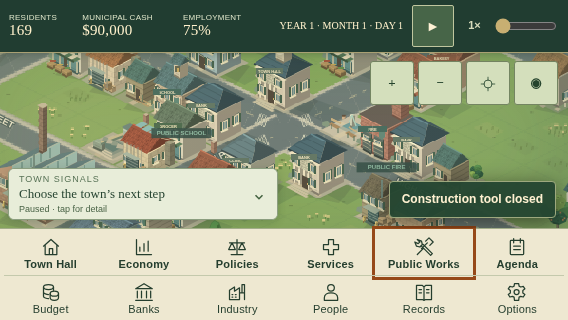
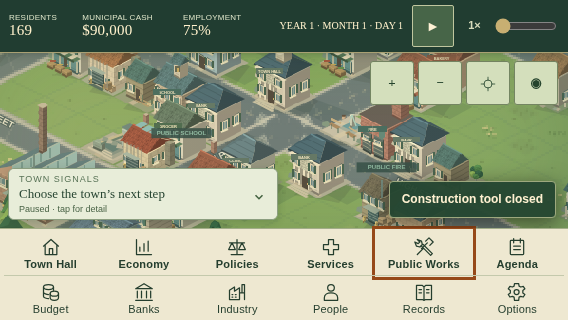
Connect civic recovery to urban and passenger decisions with verified integration evidence

diff --git a/assets/game.js b/assets/game.js
@@ -1804,7 +1804,7 @@ function civicDistrictBlueprint(project,fresh=false){
  if(!G.charter.owned.includes(parcel.id))return {ok:false,reason:'Acquire this district’s development rights before commissioning its roads.'};
  if(G.districtProgrammes?.[parcel.id]?.focus!==project.branch)return {ok:false,reason:'Record the intended district charter before commissioning its physical plan.'};
  if(civicBlueprintCacheTown!==G){civicBlueprintCacheTown=G;civicBlueprintCache=new Map();}
- const net=graph(),key=parcel.id+':'+project.branch,existing=kinds.map(kind=>civicBlueprintExisting(parcel,kind)),revision=[roadsVersion,G.buildings.length,Object.keys(G.landUse||{}).length,existing.map(v=>v?.f.id??'-').join(','),(project.sitePlans||[]).map(s=>s.kind+':'+s.x+','+s.y).join('|')].join('/'),cached=civicBlueprintCache.get(key);
+ const net=graph(),key=parcel.id+':'+project.branch,existing=kinds.map(kind=>civicBlueprintExisting(parcel,kind)),revision=[roadsVersion,G.urban?.revision||0,G.charter.revision,G.buildings.length,Object.keys(G.landUse||{}).length,existing.map(v=>v?.f.id??'-').join(','),(project.sitePlans||[]).map(s=>s.kind+':'+s.x+','+s.y).join('|')].join('/'),cached=civicBlueprintCache.get(key);
  if(!fresh&&cached?.net===net&&cached.revision===revision)return cached.plan;
  const roads=new Set([...net.neighbors.keys()].filter(id=>net.parts[id]===net.mainPart)),fixed=existing.filter(Boolean).map(v=>({kind:v.f.kind,x:v.b.x,y:v.b.y,footprint:footprintOf(v.b),existing:v.b.id,firm:v.f.id})),fixedCells=new Set(fixed.flatMap(s=>s.footprint));
  const preferred=kind=>(project.sitePlans||[]).find(s=>s.kind===kind),firsts=existing[0]?[fixed.find(s=>s.kind===kinds[0])]:civicBlueprintCandidates(parcel,kinds[0],roads,fixedCells,preferred(kinds[0]));let best=null;
@@ -5068,6 +5068,7 @@ function mayorPressureCards(){
  if(m.blocked>0)add(90,'Reconnect paid work',fmt(m.blocked)+' interrupted work journeys','A missing connection can strand existing jobs. Repair access before paying for additional capacity.','construction','Review roads');
  if(m.hardship>15)add(85,'A pay packet is not enough',fmt(m.hardship)+'% of households in hardship','Inspect a family’s wages, rent, essentials and savings before choosing tax relief or targeted support.','citizens','Follow household accounts');
  if(G.day>1&&(m.medical<65||m.school<60))add(75,'Places need people and access','Care '+fmt(m.medical)+'% · learning '+fmt(m.school)+'%','More funding cannot instantly create a qualified worker or a road. Compare public capacity and available private providers before building.','community','Compare provision');
+ const transit=G.transit?.daily;if(transit?.denied>0)add(82,'The passenger network is leaving riders behind',fmt(transit.denied)+' peak passengers without a place · '+fmt(transit.rides)+' actual journeys today','Compare the corridor’s actual driver attendance, peak capacity and operating bill. A larger fleet uses municipal capital and qualified workers who may also be needed by schools or businesses.','construction','Review the actual transit corridors');
  const delayed=(s.shipments||[]).filter(o=>o.due<G.day);if(delayed.length)add(92,'Cargo is taking longer',delayed.length+' consignments past expected arrival','Expected arrival is a plan. Review access, loading and buyer liquidity before promising another agreement.','economy','Trace the delay');
  const missed=recentTradeSetbacks();if(missed.length){const c=missed[0],market=OUTSIDE_MARKETS.find(m=>m.id===c.market);add(70,'Review a recent missed window',(market?.name||c.name)+' · '+fmt(c.delivered)+' / '+fmt(c.quantity)+' recorded arrivals; window ended day '+c.deadline,'The past window remains in history. Review uncommitted stock and handling before another promise. This is recent delivery evidence, not a hidden reputation score.','economy','Review the actual agreement');}
  if(G.day===1)add(40,'Take the first council session','Awaiting the first daily settlement','Trace food stocks and enterprise cash now. Let one simulated day finish before judging food and funded service coverage.','economy','Trace the supply chain');
@@ -5385,7 +5386,7 @@ function civicReviewRecharter(parcelId){
 }
 const civicWatchCardBase=civicProjectCard;civicProjectCard=function(project){
  let html=civicWatchCardBase(project);const issues=civicWatchForProject(project);if(!issues.length)return html;
- const content=`<section class="civic-watch-line" aria-label="Current district stewardship"><strong>Current operating check</strong>${issues.map(i=>`<p class="desc"><b>${esc(i.title)}</b><br>${esc(i.detail)}</p>${i.building?`<button data-inspect="${i.building}">Inspect the actual business</button>`:''}`).join('')}<div class="btnrow"><button data-civic-project-road>Review a recovery blueprint</button>${[...new Set(issues.map(i=>i.kind).filter(k=>CIVIC_BLUEPRINT_KINDS[project.branch].includes(k)))].map(kind=>`<button data-civic-project-build="${kind}" data-civic-project-kind="district">Survey replacement ${esc(types[kind].n.toLowerCase())}</button>`).join('')}<button data-civic-recharter="${project.target}">Compare a different future charter</button><button data-mayor-panel="community">Review local service provision</button></div></section>`;
+ const content=`<section class="civic-watch-line" aria-label="Current district stewardship"><strong>Current operating check</strong>${issues.map(i=>`<p class="desc"><b>${esc(i.title)}</b><br>${esc(i.detail)}</p>${i.building?`<button data-inspect="${i.building}">Inspect the actual business</button>`:''}`).join('')}<div class="btnrow"><button data-civic-project-road>Review a recovery blueprint</button>${[...new Set(issues.map(i=>i.kind).filter(k=>CIVIC_BLUEPRINT_KINDS[project.branch].includes(k)))].map(kind=>`<button data-civic-project-build="${kind}" data-civic-project-kind="district">Survey replacement ${esc(types[kind].n.toLowerCase())}</button>`).join('')}<button data-civic-recharter="${project.target}">Compare a different future charter</button><button data-mayor-panel="community">Review local service provision</button><button data-civic-recovery-planning>Compare land assembly and passenger access</button></div></section>`;
  return html.replace('<div class="btnrow">',content+'<div class="btnrow">');
 };
 const civicWatchStatusBase=updateMapStatusDeck;const civicWatchSignal=document.createElement('div');civicWatchSignal.id='civicWatchSignal';civicWatchSignal.hidden=true;$('mapStatusDetails').prepend(civicWatchSignal);
@@ -5395,7 +5396,7 @@ updateMapStatusDeck=function(){
  else{civicWatchSignal.hidden=true;}
  const urgent=issue?.severity==='urgent';if($('mapStatusToggle').classList.contains('operating-alert')!==!!urgent)$('mapStatusToggle').classList.toggle('operating-alert',!!urgent);
 };
-document.addEventListener('click',e=>{const b=e.target.closest('button');if(!b||!G)return;if(b.dataset.civicRecharter)civicReviewRecharter(b.dataset.civicRecharter);if(b.dataset.civicWatchProject)openCivicProjects('district');});
+document.addEventListener('click',e=>{const b=e.target.closest('button');if(!b||!G)return;if(b.hasAttribute('data-civic-recovery-planning')){openPanel('construction');const office=$('urbanPlanningOffice');if(office){office.open=true;office.scrollIntoView({block:'start'});}}if(b.dataset.civicRecharter)civicReviewRecharter(b.dataset.civicRecharter);if(b.dataset.civicWatchProject)openCivicProjects('district');});
 
 const civicWatchResetBase=resetTownTransientUI;resetTownTransientUI=function(){civicWatchCache=null;civicBlueprintCacheTown=null;civicBlueprintCache.clear();civicWatchResetBase();};
 

diff --git a/src/98-stewardship.js b/src/98-stewardship.js
@@ -30,7 +30,7 @@ function civicReviewRecharter(parcelId){
 }
 const civicWatchCardBase=civicProjectCard;civicProjectCard=function(project){
  let html=civicWatchCardBase(project);const issues=civicWatchForProject(project);if(!issues.length)return html;
- const content=`<section class="civic-watch-line" aria-label="Current district stewardship"><strong>Current operating check</strong>${issues.map(i=>`<p class="desc"><b>${esc(i.title)}</b><br>${esc(i.detail)}</p>${i.building?`<button data-inspect="${i.building}">Inspect the actual business</button>`:''}`).join('')}<div class="btnrow"><button data-civic-project-road>Review a recovery blueprint</button>${[...new Set(issues.map(i=>i.kind).filter(k=>CIVIC_BLUEPRINT_KINDS[project.branch].includes(k)))].map(kind=>`<button data-civic-project-build="${kind}" data-civic-project-kind="district">Survey replacement ${esc(types[kind].n.toLowerCase())}</button>`).join('')}<button data-civic-recharter="${project.target}">Compare a different future charter</button><button data-mayor-panel="community">Review local service provision</button></div></section>`;
+ const content=`<section class="civic-watch-line" aria-label="Current district stewardship"><strong>Current operating check</strong>${issues.map(i=>`<p class="desc"><b>${esc(i.title)}</b><br>${esc(i.detail)}</p>${i.building?`<button data-inspect="${i.building}">Inspect the actual business</button>`:''}`).join('')}<div class="btnrow"><button data-civic-project-road>Review a recovery blueprint</button>${[...new Set(issues.map(i=>i.kind).filter(k=>CIVIC_BLUEPRINT_KINDS[project.branch].includes(k)))].map(kind=>`<button data-civic-project-build="${kind}" data-civic-project-kind="district">Survey replacement ${esc(types[kind].n.toLowerCase())}</button>`).join('')}<button data-civic-recharter="${project.target}">Compare a different future charter</button><button data-mayor-panel="community">Review local service provision</button><button data-civic-recovery-planning>Compare land assembly and passenger access</button></div></section>`;
  return html.replace('<div class="btnrow">',content+'<div class="btnrow">');
 };
 const civicWatchStatusBase=updateMapStatusDeck;const civicWatchSignal=document.createElement('div');civicWatchSignal.id='civicWatchSignal';civicWatchSignal.hidden=true;$('mapStatusDetails').prepend(civicWatchSignal);
@@ -40,6 +40,6 @@ updateMapStatusDeck=function(){
  else{civicWatchSignal.hidden=true;}
  const urgent=issue?.severity==='urgent';if($('mapStatusToggle').classList.contains('operating-alert')!==!!urgent)$('mapStatusToggle').classList.toggle('operating-alert',!!urgent);
 };
-document.addEventListener('click',e=>{const b=e.target.closest('button');if(!b||!G)return;if(b.dataset.civicRecharter)civicReviewRecharter(b.dataset.civicRecharter);if(b.dataset.civicWatchProject)openCivicProjects('district');});
+document.addEventListener('click',e=>{const b=e.target.closest('button');if(!b||!G)return;if(b.hasAttribute('data-civic-recovery-planning')){openPanel('construction');const office=$('urbanPlanningOffice');if(office){office.open=true;office.scrollIntoView({block:'start'});}}if(b.dataset.civicRecharter)civicReviewRecharter(b.dataset.civicRecharter);if(b.dataset.civicWatchProject)openCivicProjects('district');});
 
 const civicWatchResetBase=resetTownTransientUI;resetTownTransientUI=function(){civicWatchCache=null;civicBlueprintCacheTown=null;civicBlueprintCache.clear();civicWatchResetBase();};

diff --git a/src/98-player-experience.js b/src/98-player-experience.js
@@ -59,6 +59,7 @@ function mayorPressureCards(){
  if(m.blocked>0)add(90,'Reconnect paid work',fmt(m.blocked)+' interrupted work journeys','A missing connection can strand existing jobs. Repair access before paying for additional capacity.','construction','Review roads');
  if(m.hardship>15)add(85,'A pay packet is not enough',fmt(m.hardship)+'% of households in hardship','Inspect a family’s wages, rent, essentials and savings before choosing tax relief or targeted support.','citizens','Follow household accounts');
  if(G.day>1&&(m.medical<65||m.school<60))add(75,'Places need people and access','Care '+fmt(m.medical)+'% · learning '+fmt(m.school)+'%','More funding cannot instantly create a qualified worker or a road. Compare public capacity and available private providers before building.','community','Compare provision');
+ const transit=G.transit?.daily;if(transit?.denied>0)add(82,'The passenger network is leaving riders behind',fmt(transit.denied)+' peak passengers without a place · '+fmt(transit.rides)+' actual journeys today','Compare the corridor’s actual driver attendance, peak capacity and operating bill. A larger fleet uses municipal capital and qualified workers who may also be needed by schools or businesses.','construction','Review the actual transit corridors');
  const delayed=(s.shipments||[]).filter(o=>o.due<G.day);if(delayed.length)add(92,'Cargo is taking longer',delayed.length+' consignments past expected arrival','Expected arrival is a plan. Review access, loading and buyer liquidity before promising another agreement.','economy','Trace the delay');
  const missed=recentTradeSetbacks();if(missed.length){const c=missed[0],market=OUTSIDE_MARKETS.find(m=>m.id===c.market);add(70,'Review a recent missed window',(market?.name||c.name)+' · '+fmt(c.delivered)+' / '+fmt(c.quantity)+' recorded arrivals; window ended day '+c.deadline,'The past window remains in history. Review uncommitted stock and handling before another promise. This is recent delivery evidence, not a hidden reputation score.','economy','Review the actual agreement');}
  if(G.day===1)add(40,'Take the first council session','Awaiting the first daily settlement','Trace food stocks and enterprise cash now. Let one simulated day finish before judging food and funded service coverage.','economy','Trace the supply chain');

diff --git a/src/28-civic-blueprints.js b/src/28-civic-blueprints.js
@@ -31,7 +31,7 @@ function civicDistrictBlueprint(project,fresh=false){
  if(!G.charter.owned.includes(parcel.id))return {ok:false,reason:'Acquire this district’s development rights before commissioning its roads.'};
  if(G.districtProgrammes?.[parcel.id]?.focus!==project.branch)return {ok:false,reason:'Record the intended district charter before commissioning its physical plan.'};
  if(civicBlueprintCacheTown!==G){civicBlueprintCacheTown=G;civicBlueprintCache=new Map();}
- const net=graph(),key=parcel.id+':'+project.branch,existing=kinds.map(kind=>civicBlueprintExisting(parcel,kind)),revision=[roadsVersion,G.buildings.length,Object.keys(G.landUse||{}).length,existing.map(v=>v?.f.id??'-').join(','),(project.sitePlans||[]).map(s=>s.kind+':'+s.x+','+s.y).join('|')].join('/'),cached=civicBlueprintCache.get(key);
+ const net=graph(),key=parcel.id+':'+project.branch,existing=kinds.map(kind=>civicBlueprintExisting(parcel,kind)),revision=[roadsVersion,G.urban?.revision||0,G.charter.revision,G.buildings.length,Object.keys(G.landUse||{}).length,existing.map(v=>v?.f.id??'-').join(','),(project.sitePlans||[]).map(s=>s.kind+':'+s.x+','+s.y).join('|')].join('/'),cached=civicBlueprintCache.get(key);
  if(!fresh&&cached?.net===net&&cached.revision===revision)return cached.plan;
  const roads=new Set([...net.neighbors.keys()].filter(id=>net.parts[id]===net.mainPart)),fixed=existing.filter(Boolean).map(v=>({kind:v.f.kind,x:v.b.x,y:v.b.y,footprint:footprintOf(v.b),existing:v.b.id,firm:v.f.id})),fixedCells=new Set(fixed.flatMap(s=>s.footprint));
  const preferred=kind=>(project.sitePlans||[]).find(s=>s.kind===kind),firsts=existing[0]?[fixed.find(s=>s.kind===kinds[0])]:civicBlueprintCandidates(parcel,kinds[0],roads,fixedCells,preferred(kinds[0]));let best=null;

diff --git a/tests/test_civic_turnarounds.py b/tests/test_civic_turnarounds.py
@@ -51,10 +51,12 @@ with sync_playwright() as pw:
  assert 'Cargo wharf closed' in p.locator('#mapStatusHeadline').inner_text();board();card=p.locator('[data-project-card=district]');assert 'Controlled historical operating record' in card.inner_text();assert 'Cargo wharf closed' in card.locator('.civic-watch-line').inner_text();assert card.locator('[data-inspect="'+str(closed['building'])+'"]').count()==1
  panel('overview');p.locator('#panelClose').click();assert p.locator('#mapStatusToggle').get_attribute('aria-expanded')=='false';p.locator('#mapStatusToggle').click();p.locator('[data-civic-watch-project]').click();assert p.locator('.civic-watch-line').count()==1
  p.screenshot(path=str(OUT/'current-closure-preserves-history.png'))
+ card=p.locator('[data-project-card=district]');card.locator('[data-civic-recovery-planning]').click();assert p.locator('#urbanPlanningOffice').evaluate('e=>e.open');assert p.locator('.transit-office').count()==1;board()
  before_rezone=state();p.locator('[data-civic-recharter]').click();p.keyboard.press('Escape');assert state()['treasury']==before_rezone['treasury']
  p.locator('[data-civic-recharter]').click();p.get_by_text('Recharter as Mixed neighbourhood',exact=True).click();pivot=state();assert abs(before_rezone['treasury']-pivot['treasury']-1200)<.001
  assert pivot['districtProgrammes']['river-reach']['focus']=='neighbourhood';assert any(b['id']==closed['building']for b in pivot['buildings']);assert pivot['firms'][closed['firm']]['closed'];assert pivot['civicProjects']['history'][0]['proof']=='Controlled historical operating record'
  assert pivot['civicProjects']['active']['district']['branch']=='neighbourhood'
+ mixed_plan=p.evaluate('__turnaroundProbe.plan()');assert mixed_plan['ok'] and {s['kind']for s in mixed_plan['sites']}=={'grocer','bakery'}
  assert not p.evaluate('__turnaroundProbe.facts().issues')
  # Actual binding agreement after the chapter starts; past fulfilled contracts cannot qualify.
  p.locator('[data-campaign-review=promise]').last.click();p.keyboard.press('Escape');assert state().get('civicCampaign')is None

diff --git a/docs/engineering/CIVIC-TURNAROUNDS-8.md b/docs/engineering/CIVIC-TURNAROUNDS-8.md
@@ -1,0 +1,33 @@
+# Continuing civic work and district turnarounds
+
+Integration base: `525e47dd3967741fb59d2fd06921c1647a29a24a` (128-square urban/transit atlas, provider/contract fixes). This branch is scoped to player-facing progression and placement guidance; it does not change settlement, private-service algorithms, transit fares or freight invoices.
+
+## Decisions and consequences
+
+A district project now surveys two actual non-overlapping footprints for its chosen purpose: factory/warehouse, grocer/bakery, or fishery/wharf. The complete connected road purchase serves both footprints and quotes its exact tile cost; the sites have separate prices. Each review and confirmation uses real placement rules and fresh topology. Existing private buildings, fields, water and other proposed footprints cannot be crossed. Plans are advice, not exclusive site reservations. A later private development can invalidate them; confirmation then requires another survey. Preliminary pre-deed trunk estimates explicitly exclude the later purpose-specific spurs.
+
+A delivered waterfront certificate no longer hides a subsequently closed wharf. Derived current checks inspect actual live roles, attending staff and cash/loss observations. Important closures take priority in the existing compact map signal, with account inspection and a reviewed recovery blueprint. A mayor can instead review a paid district recharter through the existing $1,200/30-day rule. Prior proof remains in history; buildings, ownership, debt and cargo remain with their authoritative systems. Recovery planning links to the integrated land-assembly/replacement-housing and transit office; the mayor desk also reports actual denied passenger demand and links to real route capital, staffing and operating choices.
+
+Finishing a direction or two core projects opens later operating chapters. The mayor can pin the next genuinely new supplier agreement or an actual approaching food consignment. Queue priorities, staffed depots, routing, return/transfer and contingent extra shifts are the existing economic controls. A signed promise requires actual fulfilled status; a food chapter requires its exact usable receipt and observed food supply. A cancelled, returned, lost, missing or differently scoped order earns nothing. Tracking withdrawal closes only the civic record. Cargo and contractual obligations continue. These records grant no money or mechanical stat bonus.
+
+A later teaching opportunity selects a different underserved household with actual eligible learners. Public funding, a new campus and private invitation remain distinct choices. It records observed public/private learner equivalents, current usable access and spending reserve. Private entry can fail the real investor checks; no purchase or progress is invented. A reviewed change to public provision is a viable recovery, while independently financed private teaching remains supported and separately tested. The later household plan does not claim employment or qualification from access alone.
+
+Recent missed-window feedback expires after 90 simulated days or a later fulfilled same-buyer agreement. Historical windows remain recorded. Late delivered units are described as recorded arrivals, without claiming they arrived before the missed deadline. No hidden reputation score is implied.
+
+## Integration contracts and optional data
+
+* `src/28-civic-blueprints.js`: pure physical planning and optional `project.sitePlans` validation. Coordinates remain world x/y when legacy row-stride migration changes tile indices. Its cache is derived and cleared on town reset; fresh quote/confirmation never trusts it.
+* `src/98-stewardship.js`: derived current-role checks and wrappers around project cards, compact status and reset. No save mutation from rendering.
+* `src/98-sustained-projects.js`: optional `G.civicCampaign` version1, one active record and at most eight history records; per-reference IDs/firm/market/good/quantity, exact receipt proof, daily guard and bounded validation. Optional skills continuity fields record the baseline and split observed learner equivalents. Old saves need neither field.
+* `src/50-clock.js`: call `civicCampaignDay()` after `civicProjectsDay()`, preserving urban evolution and the final RNG publication.
+* `src/90-archive-panels.js`: add `validateCivicCampaign(data)` before adoption, retaining urban/rehousing/transit validators.
+* Keep authoritative `civicProjectRecordArrival(order)` called only by successful settlement. The new receipt wrapper verifies Delivered, direction, order ID, firm, market, good and exact quantity before crediting, once. Preserve main's 120+60 import ordering and removal/return rejection.
+* `src/80-civic.js` owns the single topmost event-dialog focus trap. The duplicate project trap is removed. Actual visible summaries, selects and inputs remain keyboard reachable; help retains precedence and Android Back cancels reviewed purchases.
+
[1 lines of base64/hex data omitted]
+
+## Evidence and limits
+
+`reports/civic-turnarounds/active-controls.json`, `operating-chapters.json`, `recent-trade.json` and two actual-control screenshots carry their source hashes. Fresh seed42 journeys earn unlocks through paid food and funded teaching, build both shore businesses without a second hidden spur, preserve cash during return/recharter, sign a new binding agreement, recover an actual failed private-entry choice through public teaching, and replay exact save/load outcomes. Archive tests reject malformed project coordinates/overlaps, reference scopes and counters; legacy optional data are accepted. Historical closure UI evidence explicitly uses controlled certificate metadata followed by real liquidation; it does not certify a naturally sustainable waterfront. The approaching-load fixture makes a real paid booking and grants no cash, workers or stock.
+
+Targeted verification on this integration includes civic turnarounds, operating chapters, recent trade feedback, compact status, direction rules, successful-arrival safety, independently financed private teaching and 80-to128 transit migration/atomic rejection. The compact status occupies 14.1%, 6.9% and 6.3% of tested map sizes. Earlier mayor journey/core project/logistics recovery suites also passed during development; their old receipts are not claimed as the final bundle. No full release gate, APK or physical Android test was performed here. Automated control journeys establish reachable choices and recovery, not a claim that human multi-hour enjoyment has been certified.
